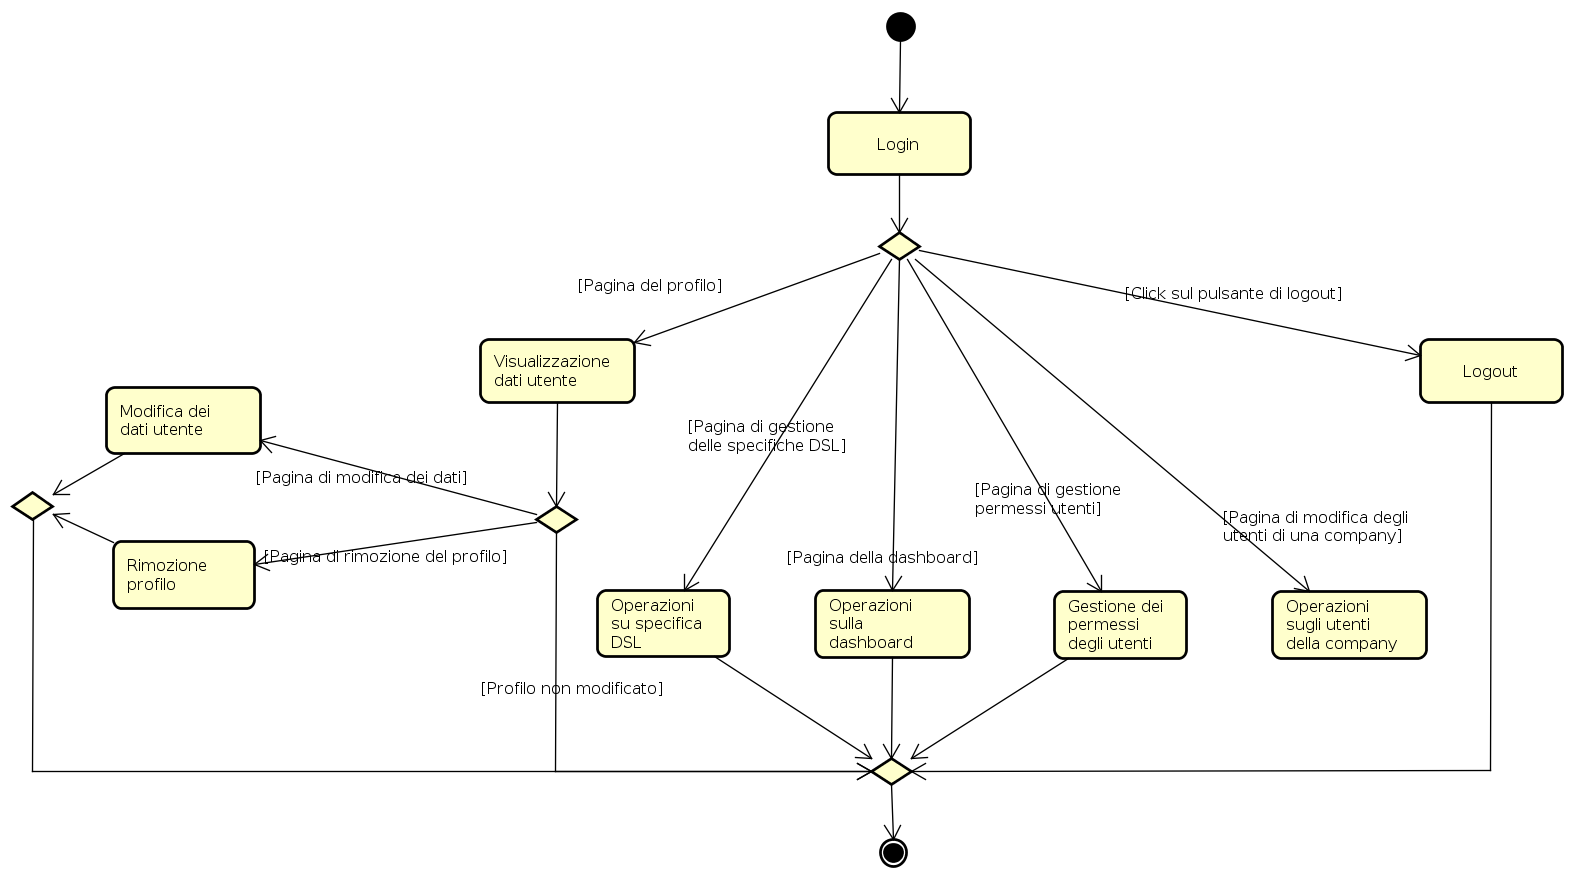
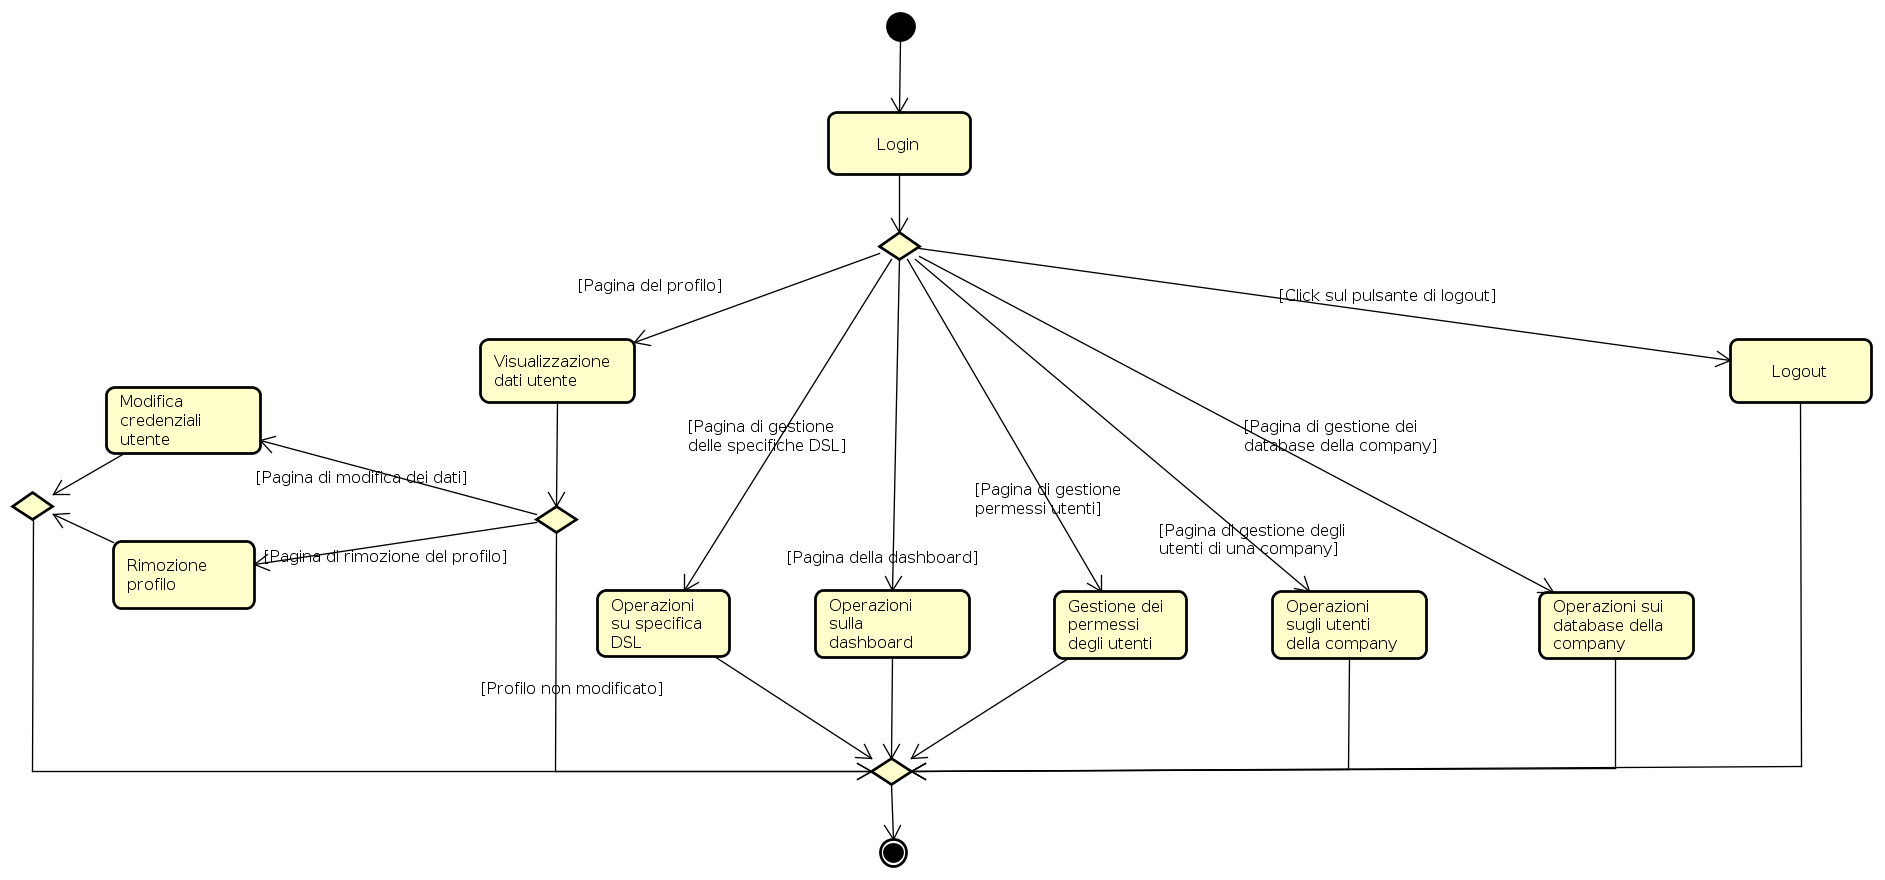
Add database management

diff --git a/official/SpecificaTecnica/res/sections/activitiesDiagrams.tex b/official/SpecificaTecnica/res/sections/activitiesDiagrams.tex
@@ -74,6 +74,7 @@ Dopo aver effettuato il login un utente può:
 \item eseguire operazioni sulla sua dashboard;
 \item gestire i permessi degli altri utenti (solo per admin e owner);
 \item gestire gli utenti della company(solo per admin e owner);
+\item visualizzare e gestire (quest'ultima solo per admin e owner) i database della company;
 \item effettuare il logout.
 \end{itemize}
 \subsubsection{Modifica delle credenziali utente}
@@ -167,8 +168,8 @@ Durante la gestione di un document, l'utente autenticato può fare una delle seg
 \subparagraph{Gestione collection} \mbox{} \\
 \begin{figure}[H]
 \begin{center}
-\includegraphics[height=12cm]{res/sections/backend/activities/modificaCollection.png}
-\caption{Modifica collection}
+\includegraphics[height=12cm]{res/sections/backend/activities/gestioneCollection.png}
+\caption{Gestione collection}
 \end{center}
 \end{figure}
 Durante la gestione di una collection, l'utente autenticato può fare una delle seguenti cinque operazioni:
@@ -215,8 +216,66 @@ Un utente autenticato, owner o admin, può invitare un nuovo utente nella propri
 \end{center}
 \end{figure}
 Un utente autenticato, owner o admin, può inserire manualmente un nuovo utente nella company senza prima invitarlo. Per farlo deve fornire indirizzo email e password del nuovo utente.
-\subsection{Editor}
-%todo
+\subsubsection{Operazioni sui database}
+\begin{figure}[H]
+\begin{center}
+\includegraphics[height=12cm]{res/sections/backend/activities/gestioneDatabase.png}
+\caption{Operazioni sui database della company}
+\end{center}
+\end{figure}
+Un utente autenticato può visualizzare i database della company, e le collection di quel database, ai quali ha accesso. Gli admin e gli owner, invece, possono gestire i database registrati presso la company:
+\begin{itemize}
+\item modificando i dati di accesso e aggiungendo restrizioni sulle collections visibili ai member;
+\item aggiungendo un database;
+\item rimuovendo un database.
+\end{itemize} 
+\paragraph{Modifica database} \mbox{} \\
+\begin{figure}[H]
+\begin{center}
+\includegraphics[height=12cm]{res/sections/backend/activities/modificaDatabase.png}
+\end{center}
+\end{figure}
+Un admin o un owner può modificare un database della propria company. In particolare deve fornire:
+\begin{itemize}
+\item nome;
+\item host;
+\item porta di accesso;
+\end{itemize}
+Inoltre può aggiungere, rimuovere o modificare restrizioni sulle collections di quel database.
+\subparagraph{Aggiunta collection} \mbox{} \\
+\begin{figure}[H]
+\begin{center}
+\includegraphics[height=12cm]{res/sections/backend/activities/aggiuntaDatiCollection.png}
+\end{center}
+\end{figure}
+Un admin o un owner può decidere se rendere una nuova collection visibile ai members della company completando il form di aggiunta di una collection.
+\subparagraph{Gestione collection} \mbox{} \\
+\begin{figure}[H]
+\begin{center}
+\includegraphics[height=12cm]{res/sections/backend/activities/gestioneCollectionAdmin.png}
+\end{center}
+\end{figure}
+Un admin o un owner può modificare le regole di accesso e rimuovere le collection esistenti.
+\subparagraph{Modifica collection} \mbox{} \\
+\begin{figure}[H]
+\begin{center}
+\includegraphics[height=12cm]{res/sections/backend/activities/modificaDatiCollection.png}
+\end{center}
+\end{figure}
+Un admin o un owner può decidere se rendere una collection già esistente visibile ai members della company completando il form di modifica di una collection.
+\paragraph{Aggiunta database} \mbox{} \\
+\begin{figure}[H]
+\begin{center}
+\includegraphics[height=12cm]{res/sections/backend/activities/aggiuntaDatabase.png}
+\end{center}
+\end{figure}
+Un admin o un owner può aggiungere un database nella propria company. In particolare deve fornire:
+\begin{itemize}
+\item nome;
+\item host;
+\item porta di accesso;
+\end{itemize}
+Inoltre può aggiungere collections nel database, e restrizioni su di esse.
 \subsection{Super Admin}
 \begin{figure}[H]
 \begin{center}
